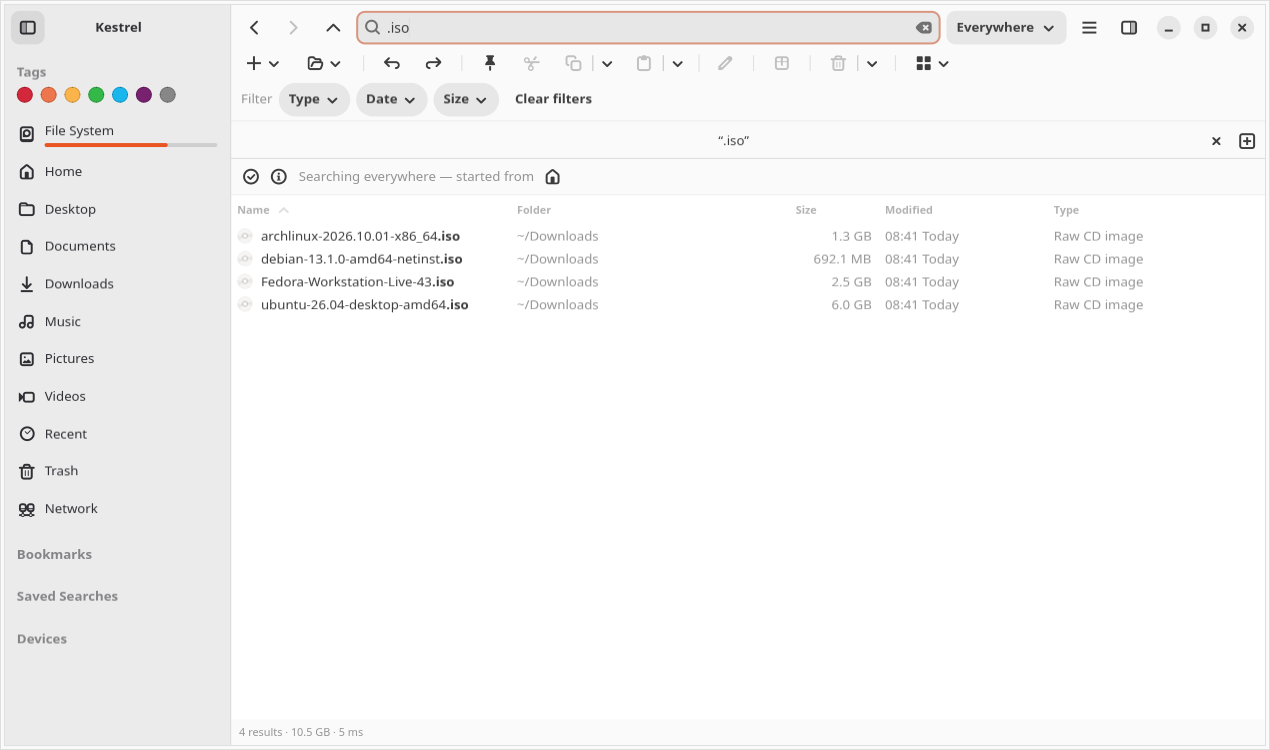
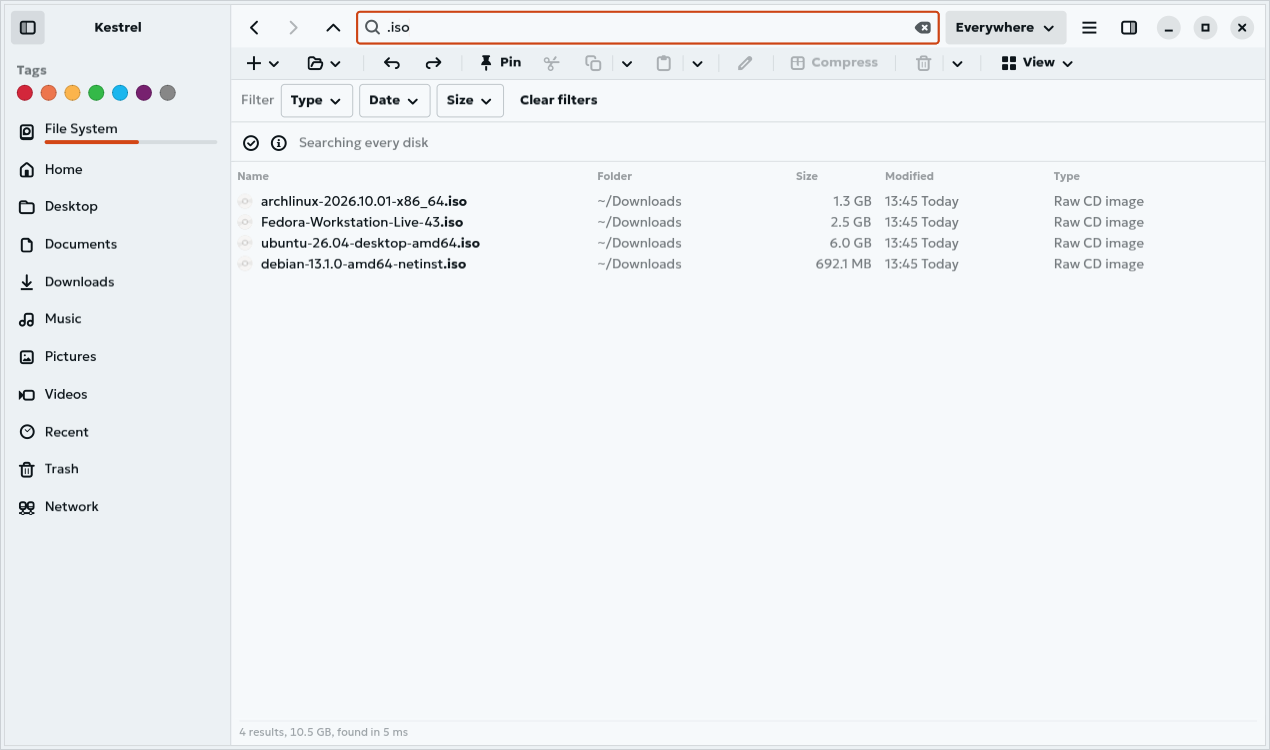
Social preview: dark card that only promotes the app; fresh README screenshots
The Reddit/Mastodon link card now shows the restyled app in dark mode with Kestrel Lime, the
name, "Find any file the moment you type." and one line about it. No URL, version, tech
stack or other product's name. screenshots.sh makes the card's shot too, and hides the
machine's real drives (GIO_USE_VOLUME_MONITOR=unix) so they don't show under Devices.

diff --git a/scripts/social-preview.py b/scripts/social-preview.py
@@ -1,50 +1,38 @@
 #!/usr/bin/env python3
-"""GitHub social preview (1280x640): icon, name, tagline and the README screenshot.
+"""GitHub social preview (1280x640): the icon, the name, one promise and the app in dark mode.
 
     python3 scripts/social-preview.py      # writes docs/social-preview.png
 
 Upload it by hand (GitHub has no API for it): repo Settings > General > Social preview > Edit.
-Reddit and Mastodon link cards show it. Rerun after the screenshot or the tagline changes.
-Needs python3-pil, python3-gi-cairo, gir1.2-rsvg-2.0 and the Ubuntu font (all in Ubuntu by default).
+Reddit and Mastodon link cards show it. Rerun after docs/screenshots/kestrel-dark.png (made by
+scripts/screenshots.sh) or the wording changes. The card only promotes the app: no URL, no
+version, no tech stack, no other product's name, so it never goes stale.
+Colours are Kestrel's dark Vantage tokens (crates/kestrel/src/style-dark.css), the face is the
+bundled Geologica. Needs python3-pil and python3-gi (GdkPixbuf reads the SVG icon).
 """
 import io, os
-import cairo, gi
-gi.require_version("Rsvg", "2.0")
-from gi.repository import Rsvg
+import gi
+gi.require_version("GdkPixbuf", "2.0")
+from gi.repository import GdkPixbuf
 from PIL import Image, ImageDraw, ImageFilter, ImageFont
 
 ROOT = os.path.dirname(os.path.dirname(os.path.abspath(__file__)))
 W, H = 1280, 640
-FONT = "/usr/share/fonts/truetype/ubuntu/Ubuntu[wdth,wght].ttf"
+FONT = f"{ROOT}/packaging/fonts/Geologica.ttf"
+# style-dark.css: --color-paper, paper-3, ink, muted, lime (oklch, converted to sRGB)
+PAPER, PAPER3, INK, MUTED, LIME = (4, 9, 12), (17, 26, 31), (235, 239, 242), (137, 148, 154), (188, 240, 83)
 
 
 def font(size, weight):
     f = ImageFont.truetype(FONT, size)
-    try:
-        f.set_variation_by_axes([100, weight])
-    except Exception:
-        pass
+    f.set_variation_by_axes([weight, 0, 0, 0])  # weight, cursive, sharpness, slant
     return f
 
 
 def svg_png(path, size):
-    h = Rsvg.Handle.new_from_file(path)
-    surf = cairo.ImageSurface(cairo.FORMAT_ARGB32, size, size)
-    cr = cairo.Context(surf)
-    vp = Rsvg.Rectangle()
-    vp.x, vp.y, vp.width, vp.height = 0, 0, size, size
-    h.render_document(cr, vp)
-    buf = io.BytesIO()
-    surf.write_to_png(buf)
-    return Image.open(io.BytesIO(buf.getvalue())).convert("RGBA")
-
-
-def gradient(top, bottom):
-    g = Image.new("RGB", (1, H))
-    for y in range(H):
-        t = y / (H - 1)
-        g.putpixel((0, y), tuple(int(a + (b - a) * t) for a, b in zip(top, bottom)))
-    return g.resize((W, H))
+    pb = GdkPixbuf.Pixbuf.new_from_file_at_size(path, size, size)
+    ok, data = pb.save_to_bufferv("png", [], [])
+    return Image.open(io.BytesIO(data)).convert("RGBA")
 
 
 def rounded(img, r):
@@ -55,37 +43,40 @@ def rounded(img, r):
     return out
 
 
-def card(name, icon, tagline, points, shot, top, bottom, accent, text, sub, file):
-    bg = gradient(top, bottom).convert("RGBA")
-    # screenshot: right side, running off the bottom-right edge
-    s = Image.open(shot).convert("RGBA")
-    sw = 760
-    s = rounded(s.resize((sw, round(s.height * sw / s.width)), Image.LANCZOS), 14)
-    x, y = W - sw + 40, 120
-    shadow = Image.new("RGBA", (W, H), (0, 0, 0, 0))
-    ImageDraw.Draw(shadow).rounded_rectangle([x, y + 10, x + sw, y + s.height + 10], 14, fill=(0, 0, 0, 120))
-    bg = Image.alpha_composite(bg, shadow.filter(ImageFilter.GaussianBlur(18)))
-    bg.alpha_composite(s, (x, y))
-    d = ImageDraw.Draw(bg)
-    # left column
-    ic = svg_png(icon, 112)
-    bg.alpha_composite(ic, (64, 96))
-    d.text((64, 228), name, font=font(82, 700), fill=text)
-    yy = 330
-    for line in tagline:
-        d.text((66, yy), line, font=font(31, 500), fill=text)
-        yy += 42
-    yy += 22
-    for p in points:
-        d.ellipse([68, yy + 11, 80, yy + 23], fill=accent)
-        d.text((94, yy), p, font=font(25, 400), fill=sub)
-        yy += 38
-    d.text((66, H - 58), "github.com/Stolly345/" + name.lower(), font=font(22, 500), fill=sub)
-    bg.convert("RGB").save(file, optimize=True)
-    print("wrote", file)
+def glow(cx, cy, r, colour, alpha):
+    """A soft pool of colour, blurred so it has no edge."""
+    g = Image.new("RGBA", (W, H), (0, 0, 0, 0))
+    ImageDraw.Draw(g).ellipse([cx - r, cy - r, cx + r, cy + r], fill=(*colour, alpha))
+    return g.filter(ImageFilter.GaussianBlur(r * 0.6))
 
-card("Kestrel", f"{ROOT}/packaging/dev.kestrel.Kestrel.svg",
-     ["Instant whole-disk search,", "built into a file manager"],
-     ["Everything-style search for Linux", "GTK4 · libadwaita · Rust", "Searches your NAS too"],
-     f"{ROOT}/docs/screenshots/kestrel.png",
-     (255, 244, 236), (250, 222, 204), (230, 97, 0), (40, 28, 22), (95, 75, 64), f"{ROOT}/docs/social-preview.png")
+
+bg = Image.new("RGBA", (W, H), (*PAPER, 255))
+bg = Image.alpha_composite(bg, glow(980, 360, 340, LIME, 46))
+bg = Image.alpha_composite(bg, glow(160, 640, 300, PAPER3, 255))
+
+# the app, tilted toward the reader by size alone: big, running off the right and bottom edges
+shot = Image.open(f"{ROOT}/docs/screenshots/kestrel-dark.png").convert("RGBA")
+sw = 820
+shot = shot.resize((sw, round(shot.height * sw / shot.width)), Image.LANCZOS)
+x, y = W - sw + 70, 112
+frame = Image.new("RGBA", (sw + 2, shot.height + 2), (0, 0, 0, 0))
+ImageDraw.Draw(frame).rounded_rectangle([0, 0, sw + 1, shot.height + 1], 14, fill=(*MUTED, 90))
+shadow = Image.new("RGBA", (W, H), (0, 0, 0, 0))
+ImageDraw.Draw(shadow).rounded_rectangle([x, y + 18, x + sw, y + shot.height + 18], 14, fill=(0, 0, 0, 200))
+bg = Image.alpha_composite(bg, shadow.filter(ImageFilter.GaussianBlur(26)))
+bg.alpha_composite(rounded(frame, 15), (x - 1, y - 1))
+bg.alpha_composite(rounded(shot, 14), (x, y))
+
+# the words: name, one promise, one line of what it is
+d = ImageDraw.Draw(bg)
+L = 72
+bg.alpha_composite(svg_png(f"{ROOT}/packaging/dev.kestrel.Kestrel.svg", 104), (L - 6, 92))
+d.text((L, 214), "Kestrel", font=font(104, 650), fill=INK)
+d.text((L + 2, 352), "Find any file", font=font(38, 500), fill=INK)
+d.text((L + 2, 398), "the moment you type.", font=font(38, 500), fill=LIME)
+d.text((L + 2, 486), "A fast, friendly file manager", font=font(25, 400), fill=MUTED)
+d.text((L + 2, 520), "with whole-disk search built in.", font=font(25, 400), fill=MUTED)
+
+out = f"{ROOT}/docs/social-preview.png"
+bg.convert("RGB").save(out, optimize=True)
+print("wrote", out)

diff --git a/PRD.md b/PRD.md
@@ -10,7 +10,7 @@
 
 ![Kestrel social preview](docs/social-preview.png)
 
-*GitHub social preview (1280×640), made by `scripts/social-preview.py` from the icon and `docs/screenshots/kestrel.png`; uploaded by hand in Settings → General → Social preview.*
+*GitHub social preview (1280×640), made by `scripts/social-preview.py` from the icon and `docs/screenshots/kestrel-dark.png` (dark mode, Kestrel Lime); it says only the name, "Find any file the moment you type." and one line about the app (no URL, version or tech stack, so it doesn't go stale); uploaded by hand in Settings → General → Social preview.*
 
 ---
 
